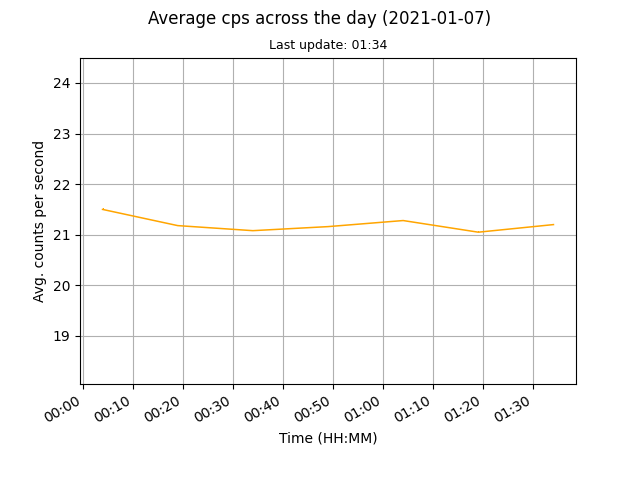
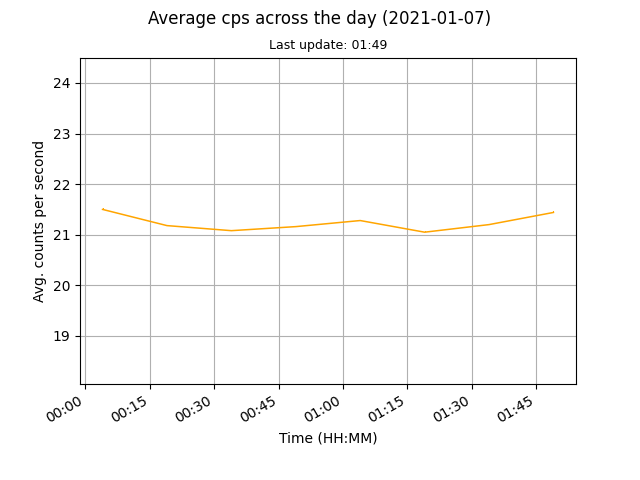
auto data update

Changed region(s): [[0.1562, 0.4375, 0.875, 0.5], [0.375, 0.8125, 0.8438, 0.875], [0.0625, 0.8125, 0.375, 0.875]]

diff --git a/docs/index.html b/docs/index.html
@@ -45,8 +45,8 @@
 	
 	<br>
 	
-	<p>Current counts per second (cps): 21.2</p>
-	<p>Last update: 2021-01-07, 01:34</p>
+	<p>Current counts per second (cps): 21.44</p>
+	<p>Last update: 2021-01-07, 01:49</p>
 
 	<p><a href="images/monthly.png"><img src="images/monthly.png" alt="Mothly avg cps data"></a><a href="images/daily.png"><img src="images/daily.png" alt="Daily avg cps data"></a></p>
 	
